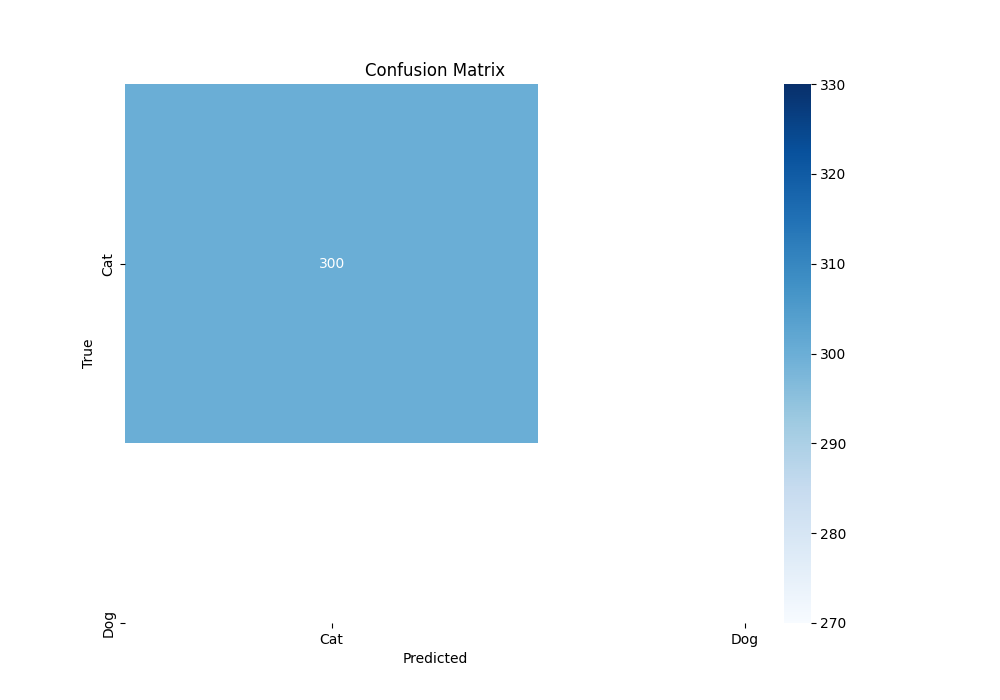
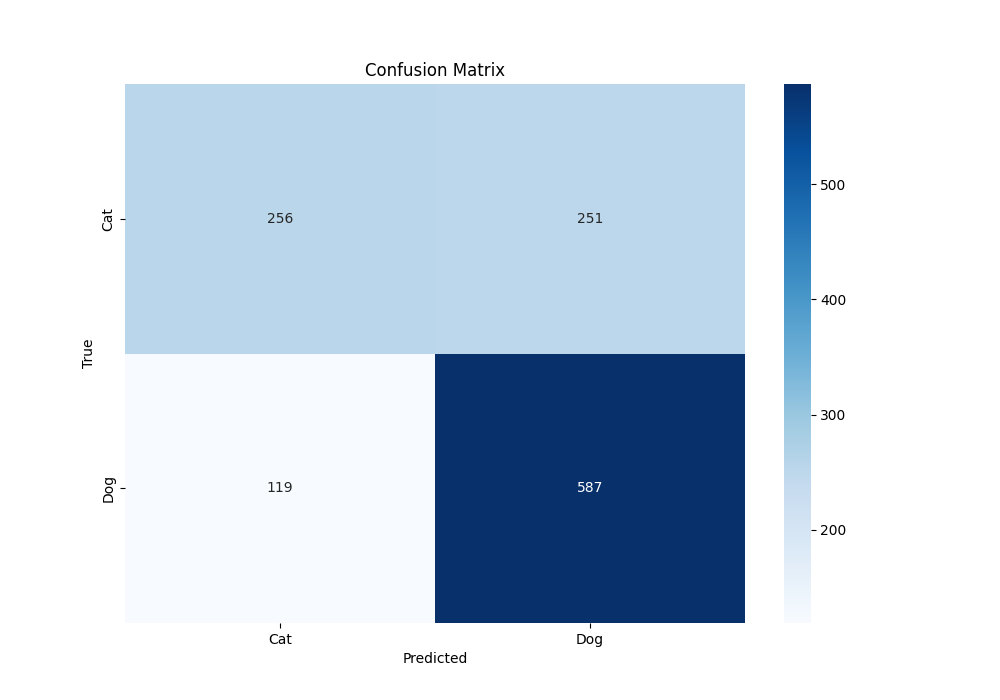
lab5-30.03.2025

diff --git a/lab5/zad3.py b/lab5/zad3.py
@@ -4,52 +4,52 @@ from sklearn.model_selection import train_test_split
 import numpy as np
 from tensorflow.keras.preprocessing.image import load_img, img_to_array
 from tensorflow.keras.models import Sequential
-from tensorflow.keras.layers import Conv2D, MaxPooling2D, Flatten, Dense
+from tensorflow.keras.layers import Conv2D, MaxPooling2D, Flatten, Dense, Dropout
 from tensorflow.keras.callbacks import History
+from tensorflow.keras.optimizers import SGD, RMSprop
 import matplotlib.pyplot as plt
 import seaborn as sns
 from sklearn.metrics import confusion_matrix
 
-data = 'dogs-cats-mini'
-img_width, img_height = 75 , 75
+# data = 'dogs-cats-mini'
+data = 'better-data'
+img_width, img_height = 50, 50
 batch_size = 32
 
 # Preprocess data
-
 def create_dataframe(data):
-    images = []
-    labels = []
+  images = []
+  labels = []
     
-    cat_count = 0
-    dog_count = 0
+  cat_count = 0
+  dog_count = 0
     
-    # for filename in os.listdir(data):
-    #     if filename.endswith('.jpg'):
-    #         if filename.startswith('cat'):
-    #             images.append(filename)
-    #             labels.append(0)
-    #             cat_count += 1
-    #         elif filename.startswith('dog'):
-    #             images.append(filename)
-    #             labels.append(1)
-    #             dog_count += 1
+  for filename in os.listdir(data):
+    if filename.endswith('.jpg'):
+      if filename.startswith('cat'):
+        images.append(filename)
+        labels.append(0)
+        cat_count += 1
+      elif filename.startswith('dog'):
+        images.append(filename)
+        labels.append(1)
+        dog_count += 1
     
-    all_files = os.listdir(data)
+  # all_files = os.listdir(data)
     
-    cat_files = [f for f in all_files if f.startswith('cat') and f.endswith('.jpg')]
-    for filename in cat_files[:1000]:  # Limit to 12,500 cat images
-      images.append(filename)
-      labels.append(0)
-    
-    # Process dog images
-    dog_files = [f for f in all_files if f.startswith('dog') and f.endswith('.jpg')]
-    for filename in dog_files[:1000]:  # Limit to 12,500 dog images
-      images.append(filename)
-      labels.append(1)
+  # cat_files = [f for f in all_files if f.startswith('cat') and f.endswith('.jpg')]
+  # for filename in cat_files[:1000]:  # Limit to 12,500 cat images
+    # images.append(filename)
+    # labels.append(0)
 
-    print(f"Loaded {cat_count} cat images and {dog_count} dog images")
-    df = pd.DataFrame({'filename': images, 'label': labels})
-    return df
+  # dog_files = [f for f in all_files if f.startswith('dog') and f.endswith('.jpg')]
+  # for filename in dog_files[:1000]:  # Limit to 12,500 dog images
+    # images.append(filename)
+    # labels.append(1)
+
+  print(f"Loaded {cat_count} cat images and {dog_count} dog images")
+  df = pd.DataFrame({'filename': images, 'label': labels})
+  return df
 
 df = create_dataframe(data)
 print(f'Images in {data}: {len(df)}')
@@ -72,24 +72,27 @@ def load_image(dataframe, data):
 train_images, train_labels = load_image(train_df, data)
 test_images, test_labels = load_image(test_df, data)
 
-#b)
+#c)
 
 model = Sequential([
   Conv2D(32, (3, 3), activation='relu', input_shape=(img_width, img_height, 3)),
   MaxPooling2D((2, 2)),
-
+  # Dropout(0.25),
   Conv2D(64, (3, 3), activation='relu'),
   MaxPooling2D((2, 2)),
-
+  # Dropout(0.25),
   Conv2D(128, (3, 3), activation='relu'),
   MaxPooling2D((2, 2)),
-
+  # Dropout(0.25),
   Flatten(),
   Dense(128, activation='relu'),
+  # Dropout(0.5),
   Dense(1, activation='sigmoid')
 ])
 
-model.compile(optimizer='adam', loss='binary_crossentropy', metrics=['accuracy'])
+# model.compile(optimizer=SGD(learning_rate=0.1), loss='binary_crossentropy', metrics=['accuracy']) # 58,2%
+# model.compile(optimizer=RMSprop(learning_rate=0.001), loss='binary_crossentropy', metrics=['accuracy']) # 67,8%
+model.compile(optimizer='adam', loss='binary_crossentropy', metrics=['accuracy']) # 69,5%
 history = History()
 model.fit(train_images, train_labels, epochs=5, batch_size=batch_size, validation_split=0.2, callbacks=[history])
 
@@ -99,6 +102,7 @@ print(f"Test accuracy: {test_acc:.4f}")
 predictions = model.predict(test_images)
 predicted_labels = np.round(predictions).flatten()
 
+# d)
 cm = confusion_matrix(test_labels, predicted_labels)
 plt.figure(figsize=(10, 7))
 sns.heatmap(cm, annot=True, fmt='d', cmap='Blues')
@@ -107,6 +111,28 @@ plt.ylabel('True')
 plt.xticks([0.5, 1.5], ['Cat', 'Dog'])
 plt.yticks([0.5, 1.5], ['Cat', 'Dog'])
 plt.title('Confusion Matrix')
-plt.savefig('dog_cat_confusion_matrix.png')
+plt.savefig('dog_cat_confusion_matrix2.png')
 
+plt.figure(figsize=(10, 5))
+plt.subplot(1, 2, 1)
+plt.plot(history.history['accuracy'], label='Training Accuracy')
+plt.plot(history.history['val_accuracy'], label='Validation Accuracy')
+plt.xlabel('Epoch')
+plt.ylabel('Accuracy')
+plt.grid(True, linestyle='--', color='grey')
+plt.legend()
 
+plt.subplot(1, 2, 2)
+plt.plot(history.history['loss'], label='Training Loss')
+plt.plot(history.history['val_loss'], label='Validation Loss')
+plt.xlabel('Epoch')
+plt.ylabel('Loss')
+plt.grid(True, linestyle='--', color='grey')
+plt.legend()
+
+plt.tight_layout()
+plt.savefig('dog_cat_learning_curve2.png')
+
+# Odpowiedź na pytanie dodatkowe -> Tak, można
+indeksy_blednych = np.where(predicted_labels != test_labels)[0]
+print(f"Liczba błędnie sklasyfikowanych zdjęć: {len(indeksy_blednych)}")
